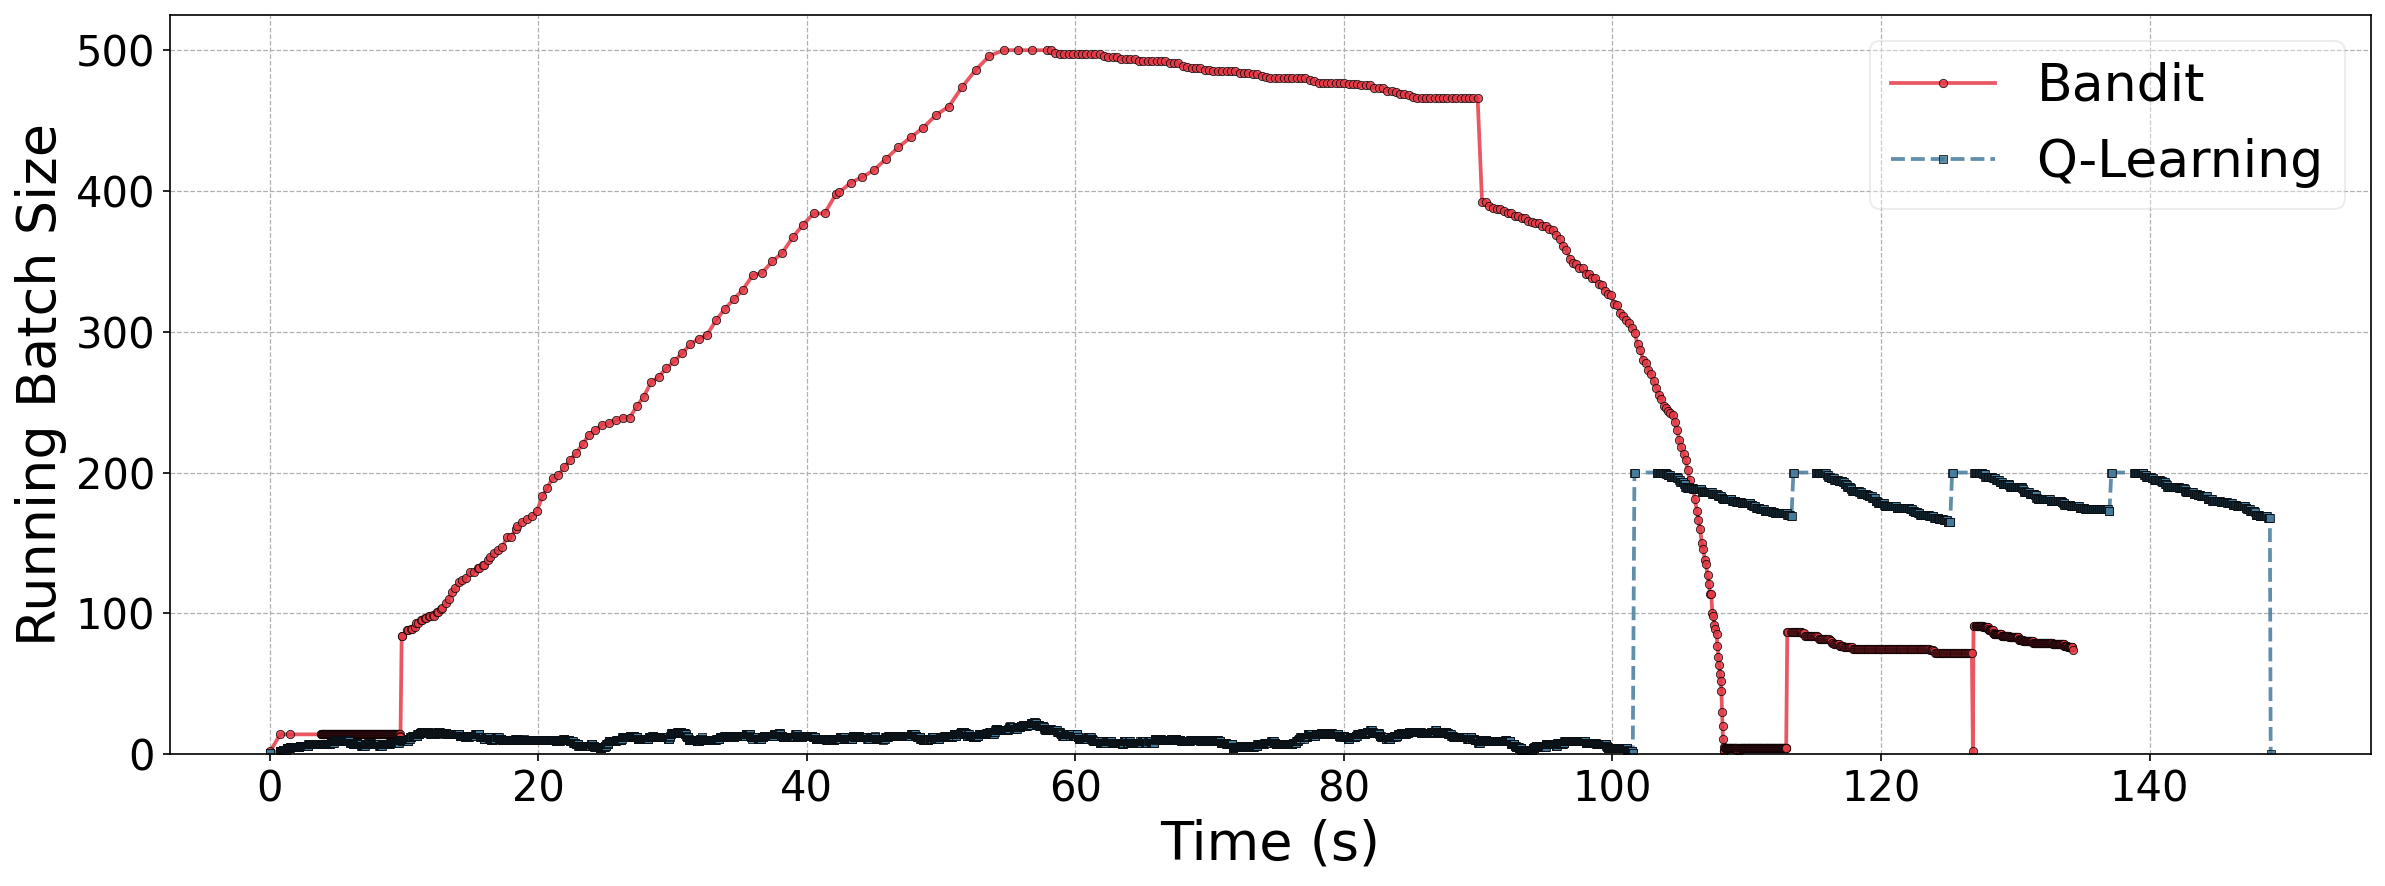
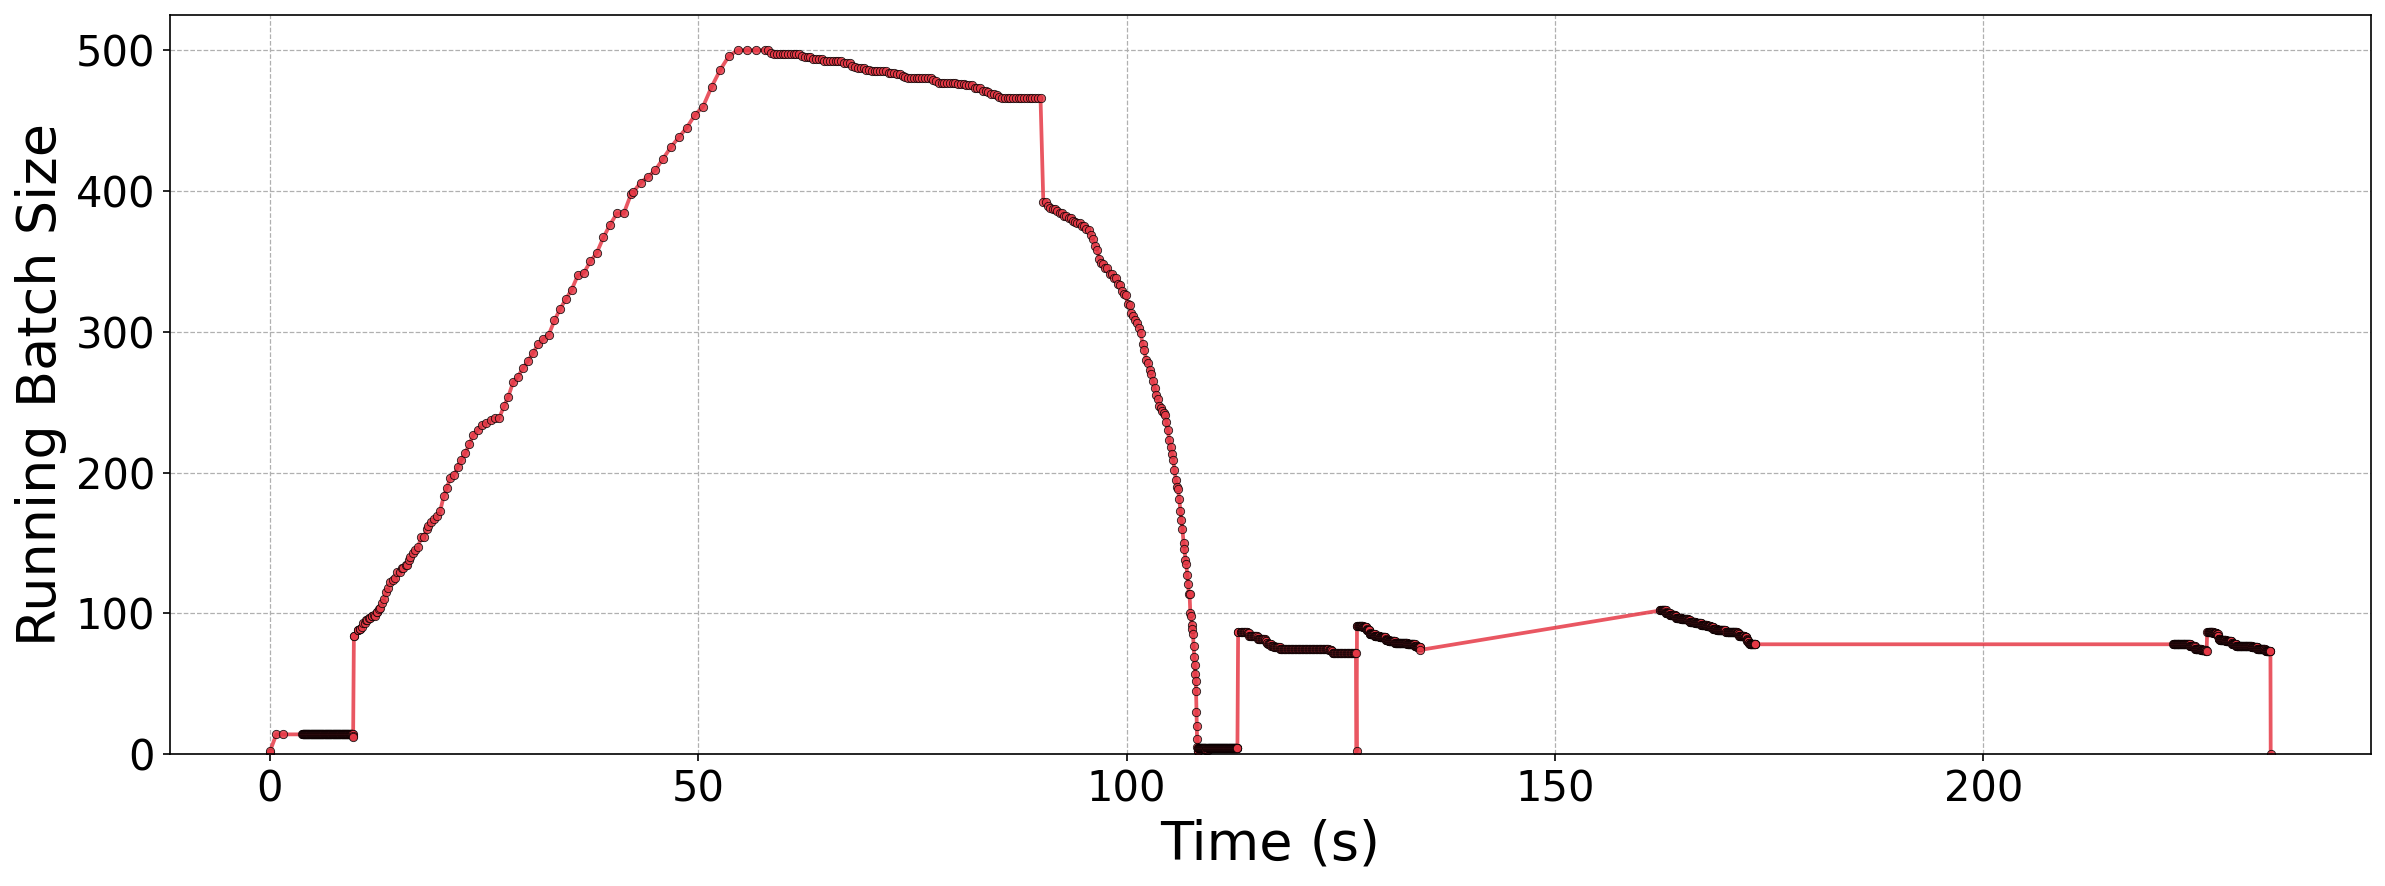
rl plot

diff --git a/code/vllm/rl_batch_size_logs/plot.py b/code/vllm/rl_batch_size_logs/plot.py
@@ -14,7 +14,7 @@ import numpy as np
 LOG_DIR = os.path.expanduser("~/CS496/code/vllm/rl_batch_size_logs")
 LOG_FILES = [
     "vllm_multiple_families_varying_workloads_5_families_5_rps_chunked_hash_tree_bandit.log",
-    "vllm_multiple_families_varying_workloads_5_families_5_rps_chunked_hash_tree_heuristic.log",
+    # "vllm_multiple_families_varying_workloads_5_families_5_rps_chunked_hash_tree_heuristic.log",
     # "vllm_multiple_families_varying_workloads_5_families_500_rps_chunked_hash_tree_bandit.log",
     # "vllm_multiple_families_varying_workloads_5_families_500_rps_chunked_hash_tree_qlearning.log",
 ]
@@ -101,7 +101,7 @@ for label, color, marker, ls, ts, bs, duration in all_series:
 ax.set_xlabel("Time (s)", fontsize=26)
 ax.set_ylabel("Running Batch Size", fontsize=26)
 ax.tick_params(axis="both", labelsize=20)
-ax.legend(fontsize=25, framealpha=0.35)
+# ax.legend(fontsize=25, framealpha=0.35)
 ax.grid(True, linewidth=0.6, linestyle="--")
 ax.set_ylim(bottom=0)
 plt.tight_layout()
